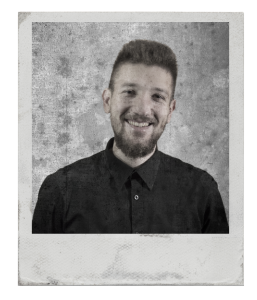
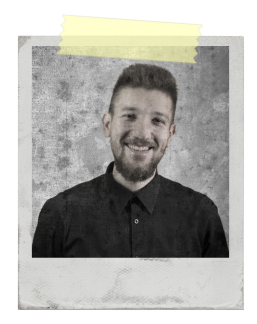
Update image

diff --git a/index.html b/index.html
@@ -34,7 +34,7 @@
 						<div class="col col-12 col-md-4 col-sm-4" id="leftcol">
 							<div class="col-md-12 border" id="photodiv">
 								<span class="toptext">photo</span>
-									<img class="img-fluid" id="photo" src="images/polaroid3.png" alt="Joca">
+									<img class="img-fluid" id="photo" src="images/polaroid.png" alt="Joca">
 							</div>
 						</div>
 						<div class="col col-md-8 col-xs-12" id="rightcol">
